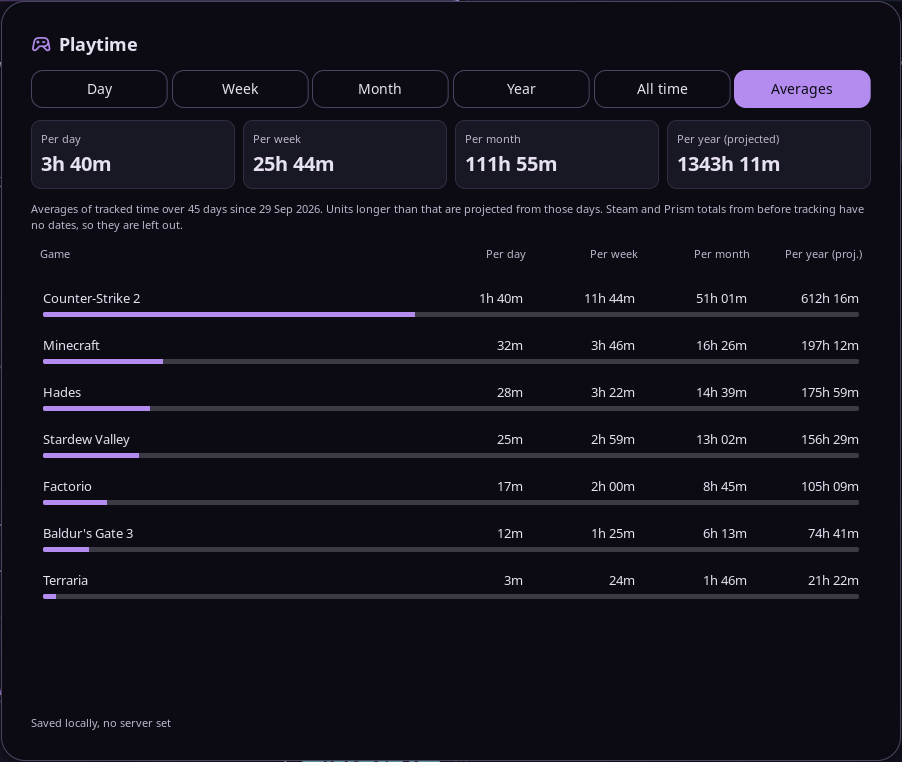
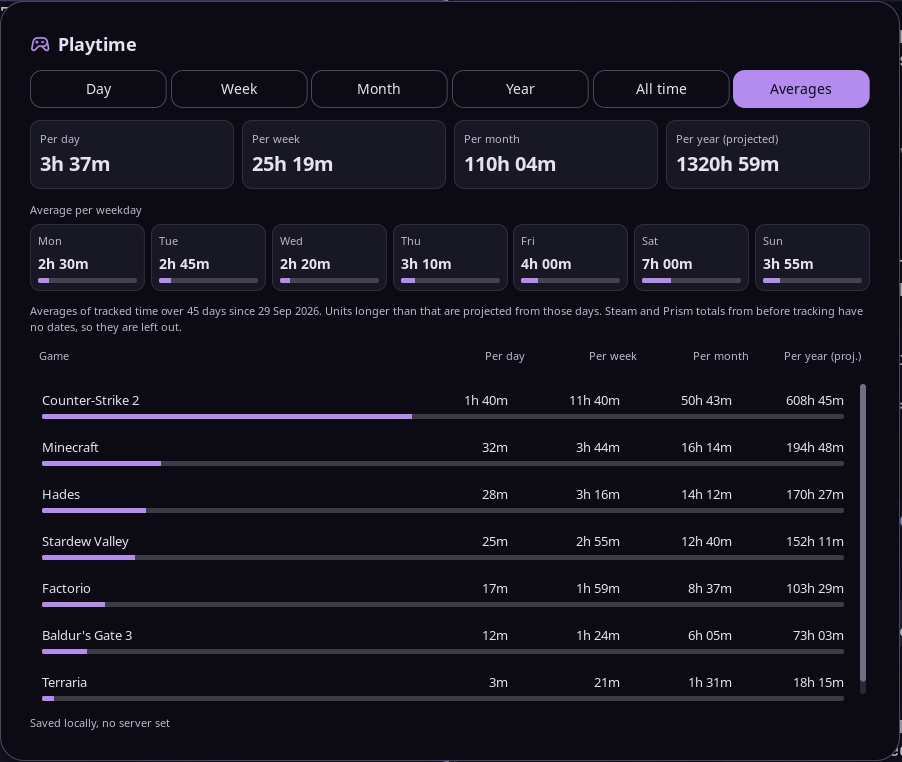
feat(panel): average playtime for each weekday
The Averages tab gets a Monday-to-Sunday row: the average time played
on each weekday, with a bar showing it out of 24 hours. The daemon
splits sessions at local midnight and divides each weekday's time by
how many of that weekday the tracked span covers; summary.json carries
it as averages.weekdays. Version 1.5.0.

diff --git a/playtime.py b/playtime.py
@@ -1019,6 +1019,27 @@ def summarize(db, live=(), import_types=DEFAULTS["import_steam_types"]):
     return periods
 
 
+def weekday_averages(sessions, first, now=None):
+    """Average tracked seconds on each weekday, Monday first: the time played
+    on that weekday (sessions split at local midnight) divided by how many of
+    that weekday fall between the first session's date and today, both
+    counted. Today counts as a whole day while it is still going."""
+    now = time.time() if now is None else now
+    seconds = [0.0] * 7
+    for s in sessions:
+        a, b = s["start"], min(s["end"], now)
+        while b > a:
+            day = dt.datetime.fromtimestamp(a).date()
+            midnight = dt.datetime.combine(day + dt.timedelta(days=1), dt.time()).timestamp()
+            cut = min(b, midnight)
+            seconds[day.weekday()] += cut - a
+            a = cut
+    start = dt.datetime.fromtimestamp(first).date()
+    span = (dt.datetime.fromtimestamp(now).date() - start).days + 1
+    counts = [span // 7 + (1 if (i - start.weekday()) % 7 < span % 7 else 0) for i in range(7)]
+    return [{"days": c, "average": seconds[i] / c if c else 0} for i, c in enumerate(counts)]
+
+
 def averages(db, live=()):
     """Tracked seconds overall and per game group, with the span they cover:
     from the first tracked session to now. The panel divides by `days` for
@@ -1040,6 +1061,7 @@ def averages(db, live=()):
         g["seconds"] += seconds
     game_list = sorted(games.values(), key=lambda g: -g["seconds"])
     return {"since": first,
+            "weekdays": weekday_averages(sessions.values(), first),
             # At least one day, so a first session doesn't blow up the rate.
             "days": max(1.0, (time.time() - first) / 86400),
             "total": sum(g["seconds"] for g in game_list),

diff --git a/README.md b/README.md
@@ -8,11 +8,12 @@ all-time stats per game, as bar charts with a time y-axis on round ticks. All ti
 Launcher recorded before tracking started. Clicking a game opens its own bar
 chart, starting at the current year; clicking a bar drills down from year to
 month, then to the clicked day by hour. The Averages tab shows average playtime
-per day, week, month and year, overall and per game, from tracked time.
+per day, week, month and year, overall and per game, from tracked time, and
+the average for each weekday (Monday to Sunday).
 
 ![Month view: a bar per day and the games played](screenshots/month.png)
 
-![Averages tab: per day, week, month and year, overall and per game](screenshots/averages.png)
+![Averages tab: per day, week, month and year, per weekday, and per game](screenshots/averages.png)
 
 ## How it works
 
@@ -69,7 +70,11 @@ per day, week, month and year, overall and per game, from tracked time.
     seconds overall and per game, and the days since the first tracked
     session. Each average is seconds / days x unit length (a month is 30.44
     days). A unit longer than the tracked span is marked "(projected)".
-    Imported totals have no dates, so they are left out.
+    Imported totals have no dates, so they are left out. `weekdays` holds
+    seven entries, Monday first: tracked seconds on that weekday (sessions
+    split at local midnight) divided by how many of that weekday fall between
+    the first session's date and today. The bar under each weekday is that
+    average out of 24 hours.
   - In a game view: the back button or Escape goes up a level (from the year
     back to the list), the arrows or Left/Right move to the previous or next
     period. `noctalia msg panel-open soulmanyes/playtime:panel "game steam:240
